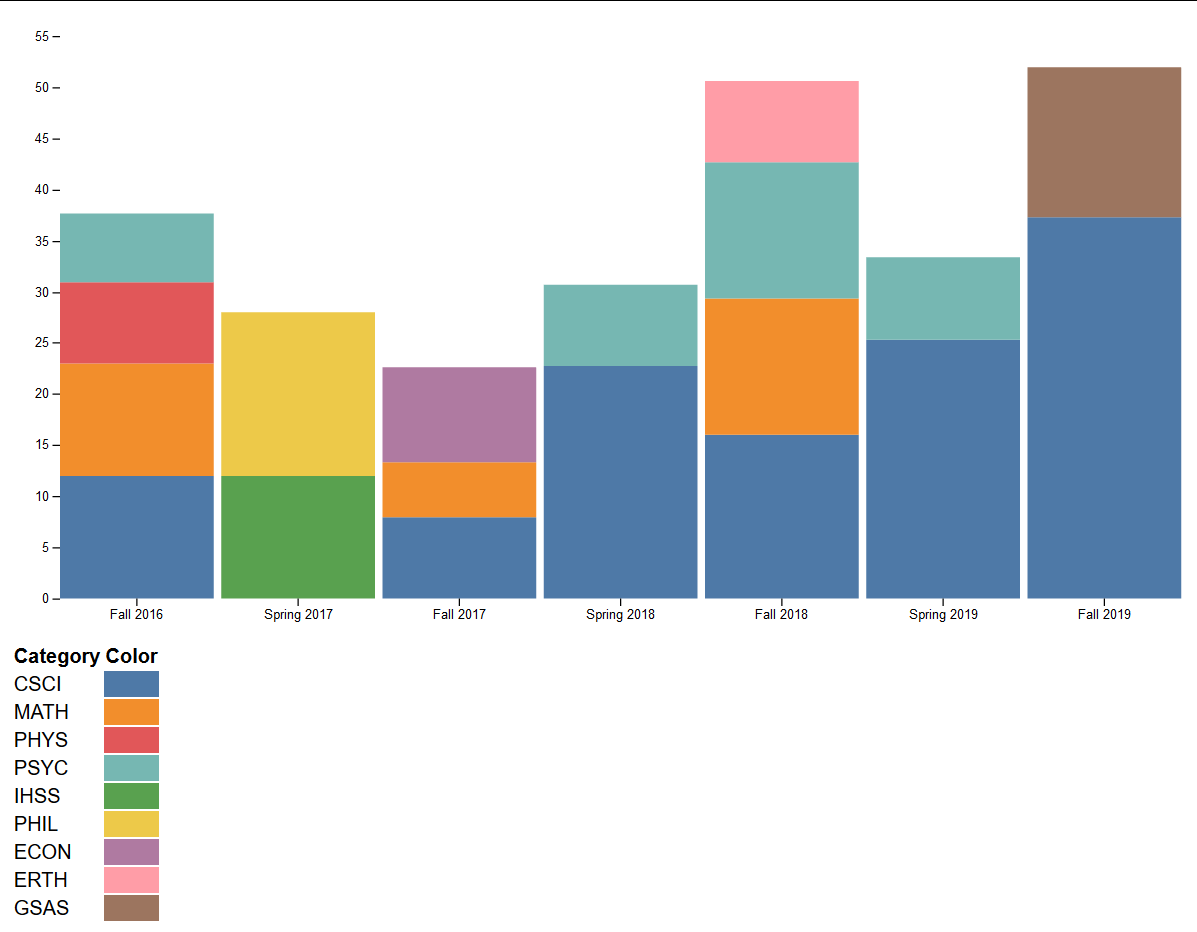
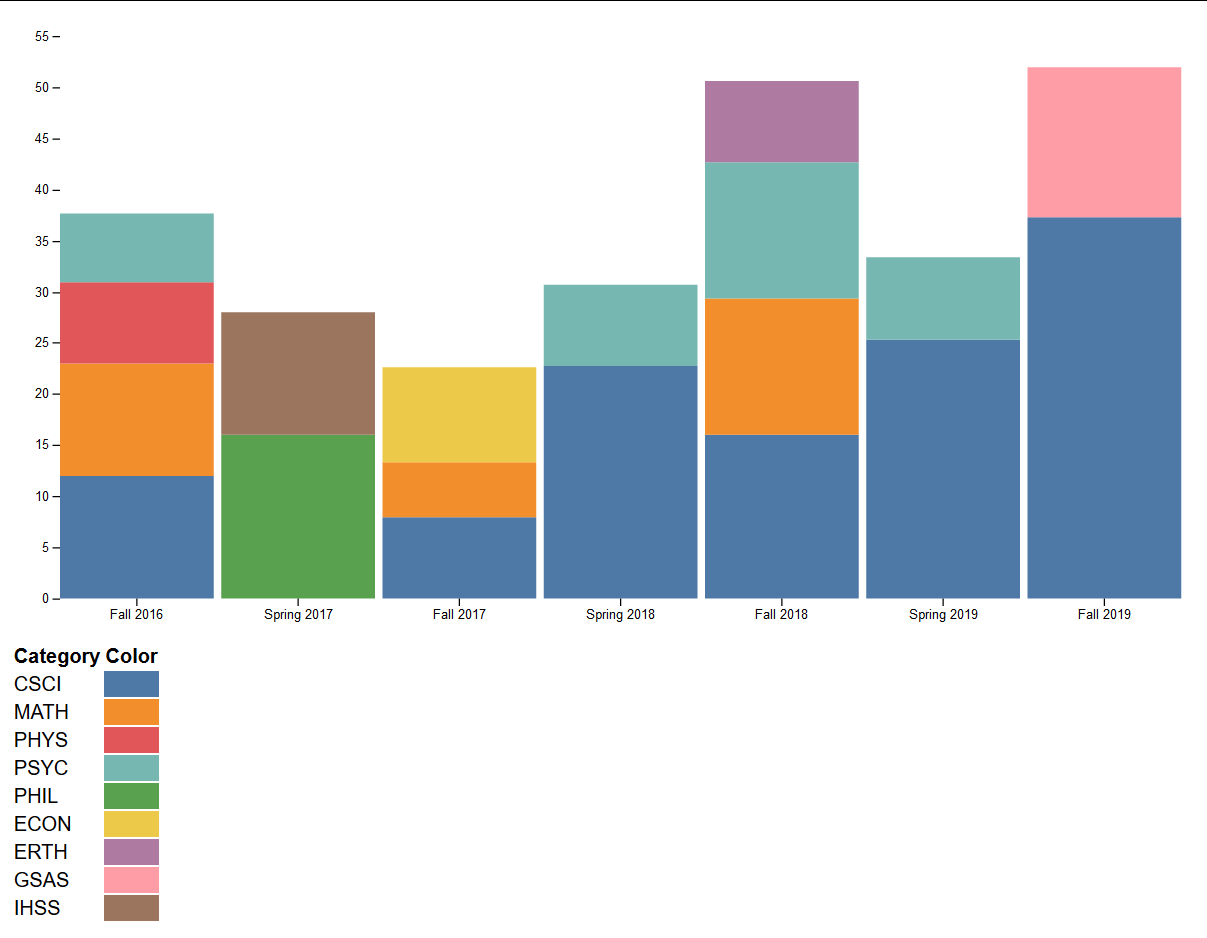
fixed data ordering

diff --git a/main.html b/main.html
@@ -33,7 +33,7 @@
 <script>
 
 // change this to 'katherine' to try the other data set.
-var currentData = 'alan';
+var currentData = 'katherine';
 
 if (currentData == 'katherine'){
     currentcsv = 'https://raw.githubusercontent.com/alanjoy396/Interactive-Visualization-HW6/master/HW6_Kat_Data_Stack.csv';
